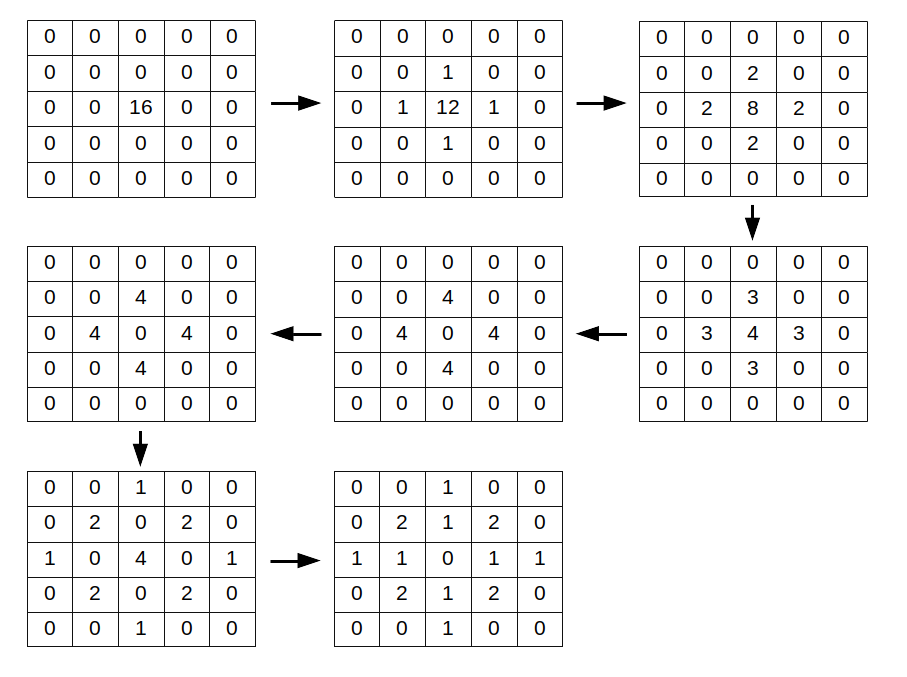
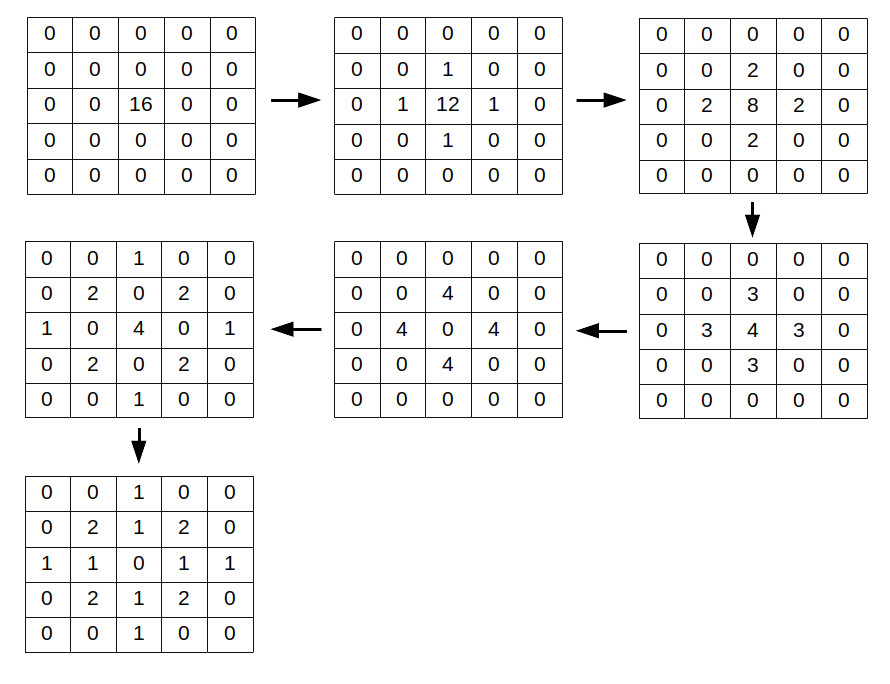
readme updates

Changed region(s): [[0.0303, 0.0, 0.9708, 0.9616], [0.4854, 0.6824, 0.6067, 0.9616]]

diff --git a/README.md b/README.md
@@ -18,7 +18,7 @@ The inspiration for this project was drawn from a recent [Numberphile](https://w
 
 1. Assume the existence of the following 5x5 grid with `N = 16` "sand grains" at the centre. The rest of the cells in the grid have zero sand grains and therefore a value of 0. This is illustrated below
 
-2. We perform a similar process as we did above. However, we notice that this cascade is fairly more complex due to feedback effects. Instead of the number of iterations being only `16/4 = 4`, we must perform 7 iterations due to feedback effects until we reach our equilibrium state.
+2. We perform a similar process as we did above. However, we notice that this cascade is fairly more complex due to feedback effects. Instead of the number of iterations being only `16/4 = 4`, we must perform 6 iterations due to feedback effects until we reach our equilibrium state.
 
 <img src="/rdimg/Visuals3.png" width="800">
 
